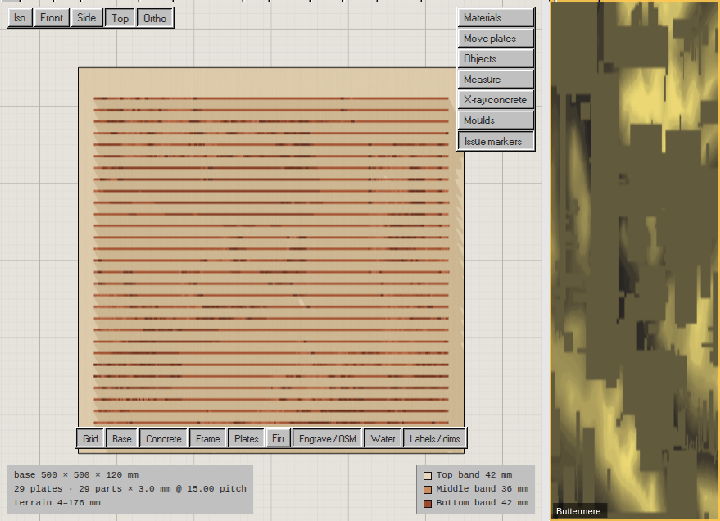
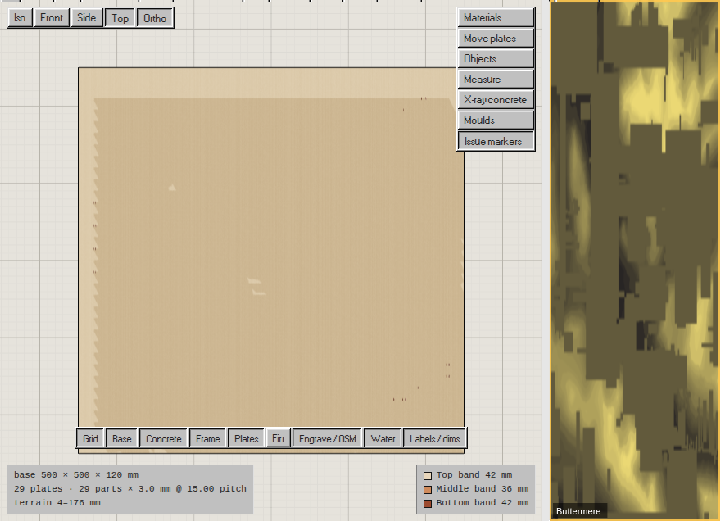
docs: recapture Buttermere Top vs Map and Front after E–W fix
Top (north up) beside the Map preview, plus Front from the north with
east on the left. Wait for the Water layer so the canvas has settled.

Changed region(s): [[0.1222, 0.1843, 0.6417, 0.8292]]

diff --git a/e2e/buttermere-orient-live.spec.ts b/e2e/buttermere-orient-live.spec.ts
@@ -49,6 +49,9 @@ test('live Buttermere 500×500: 3D Top north matches Map preview', async ({ page
   const top3d = page.getByTestId('viewport-3d');
   await expect(top3d.getByRole('button', { name: 'Top' })).toHaveClass(/on/);
   await expect(page.getByTestId('plate-height-range')).toContainText(/terrain/i);
+  const waterBtn = top3d.getByRole('button', { name: 'Water' });
+  if (!(await waterBtn.getAttribute('class'))?.includes('on')) await waterBtn.click();
+  await page.waitForTimeout(1500);
   const threeBuf = Buffer.from(await top3d.screenshot({ type: 'png' }));
 
   await openWorkspaceTab(page, 'Map');
